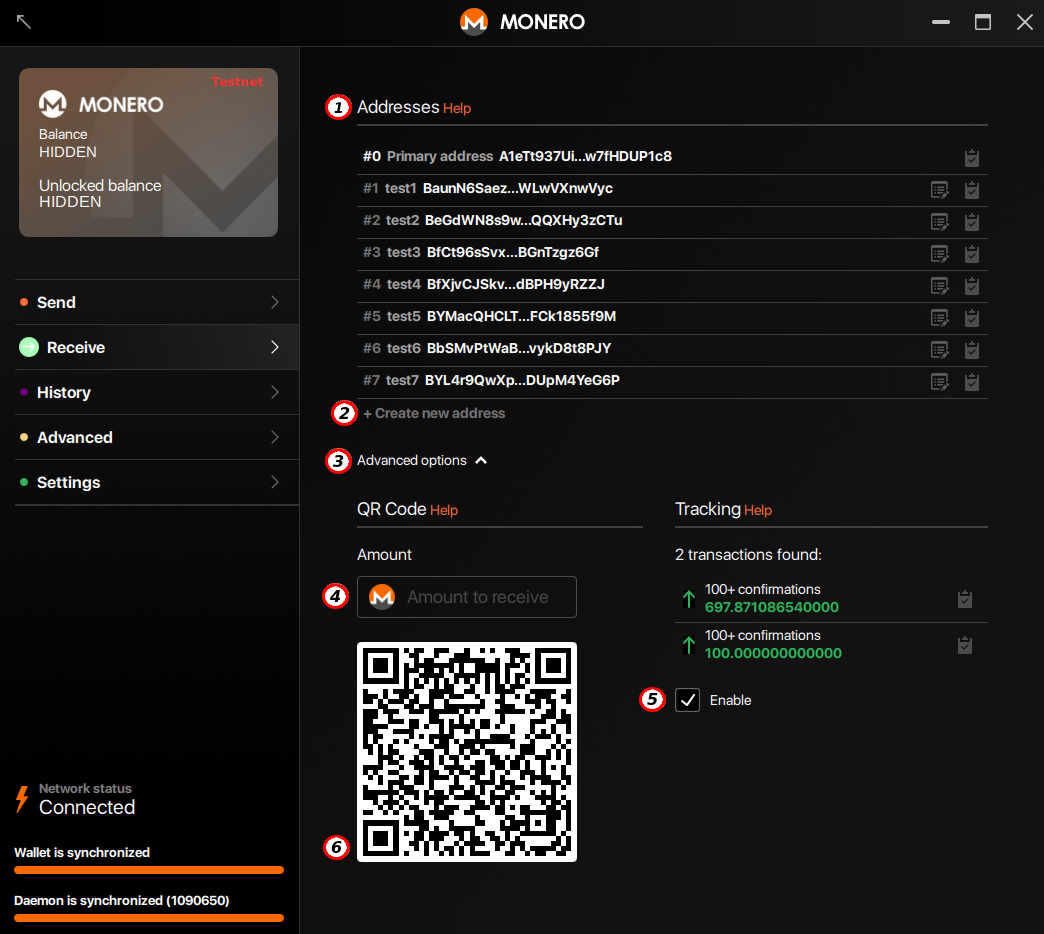
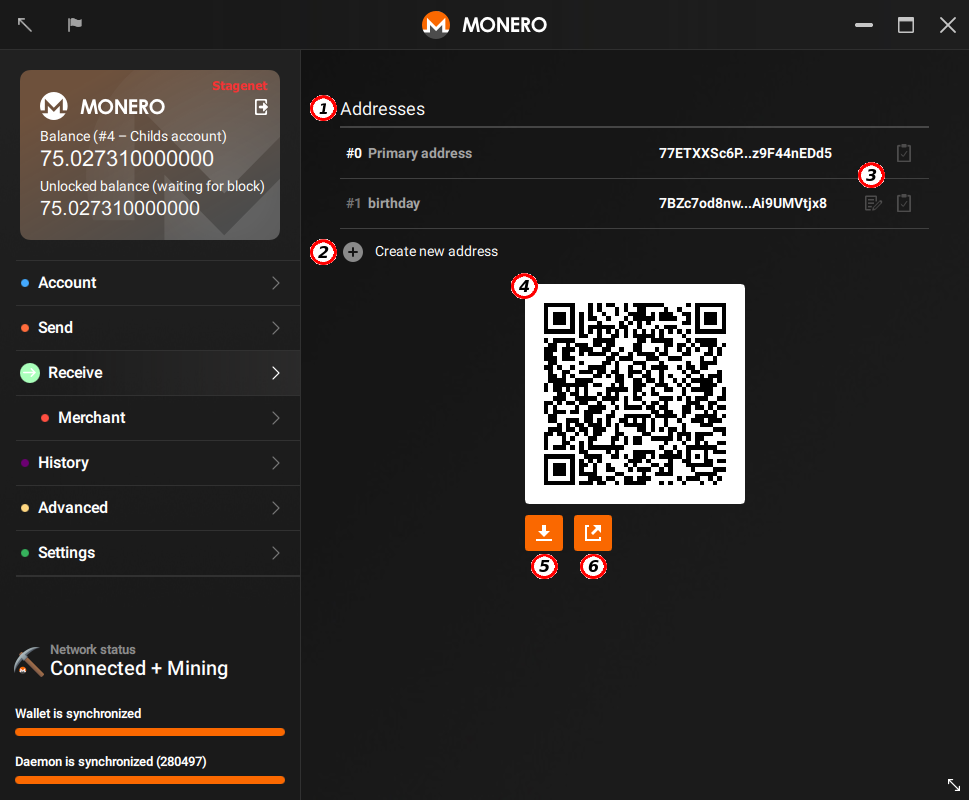
Merchant page update + correction after review

diff --git a/en/ch05.md b/en/ch05.md
@@ -1,11 +1,22 @@
 # Receive Monero
 ![receive](media/black_receive.png)
 
-The `Receive` tab provides tools for generating subaddresses, crafting payment requests, and monitoring incoming transactions.
+The `Receive` tab provides tools for generating subaddresses.
 
 (1) **Addresses:** This is a list of your primary address and subaddresses.  
 (2) **Create new address:** This button allows you to create new subaddresses. You can create as many as you would like. *Learn more about [subaddresses](https://monero.stackexchange.com/questions/3673/what-is-a-sub-address).*  
-(3) **Advanced options:** Clicking here you will be prompted to the advanced section.  
-(4) **Amount:** This is for creating a payment request, enter the amount of Monero you would like to receive.  
-(5) **Tracking:** If you tick this box, you'll see a list of incoming transactions.  
-(6) **QR code:** This is a QR code that has your selected address, and optionally the amount, embedded into it. It can be used as a way to give others your Monero address by scanning the code.  
+(3) **Set Label:** Click on this button to set this subaddress label.  
+(4) **QR code:** This is a QR code that has your selected address embedded into it. It can be used as a way to give others your Monero address by scanning the code.  
+(5) **Save:** Click here to save the QR code as a `png` image.  
+(6) **Copy:** Click here to copy the QR code corresponding URL formated as *monero:<address>*  
+
+## Merchant view
+![merchant](media/merchant.png)
+
+The `Merchant` view is intending to offer professionals a nice app on their points of sell. It let you craft payment requests, and monitor incoming transactions
+
+(1) **QR code:** This is a QR code that has your selected address, and optionally the amount, embedded into it. It can be used as a way to give others your Monero address by scanning the code.  
+(2) **Amount:** This is for creating a payment request, enter the amount of Monero you would like to receive.  
+(3) **Payment URL:** This is the URL corresponding to the address and amount you have chosen. It could be copied by clicking on it and sent to a customer.  
+(3) **Tracking:** If you tick this box, you'll see a list of incoming transactions.  
+(5) **Incoming transaction:** Those are the transaction currently seen on the blockchain and the transaction pool, with associated confirmations.
